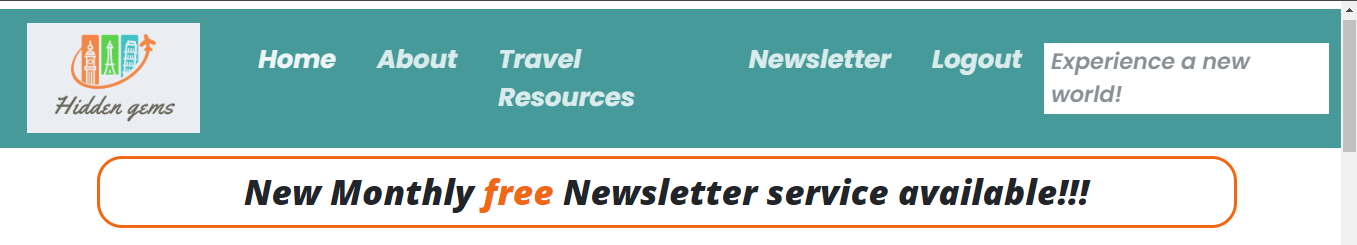
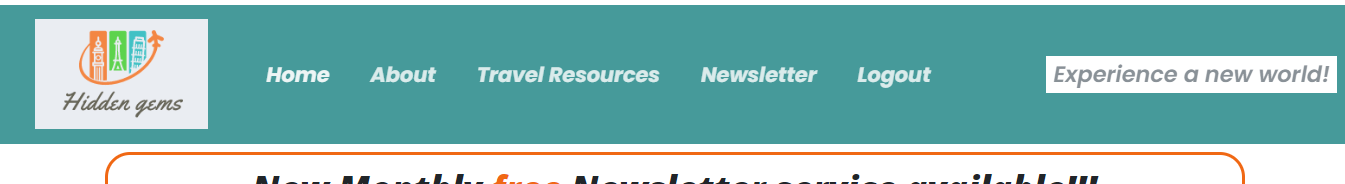
Add photos to be used in features section of README.md.

diff --git a/newsletter/templates/newsletter/newsletter-confirm-delete.html b/newsletter/templates/newsletter/newsletter-confirm-delete.html
@@ -4,7 +4,7 @@
     <h1 class="newsletter-phrase">Unsubscribe from Newsletter</h1>
   </div>
   <div class="m-5 email-list text-center">
-    <p class="orange"><strong>Are you sure you want to unsubscribe {{ object.email }}?</strong></p>
+    <p class="orange"><strong>Are you sure you want to unsubscribe <br>{{ object.email }}?</strong></p>
     <form method="post">
       {% csrf_token %}
       <button class="btn btn-primary btn-sm" type="submit">Yes, Unsubscribe</button>

diff --git a/newsletter/templates/newsletter/newsletter-form.html b/newsletter/templates/newsletter/newsletter-form.html
@@ -5,6 +5,7 @@
       <h1 class="newsletter-phrase">{% if object.pk %}Edit Subscription{% else %}Subscribe to Newsletter{% endif %}</h1>
     </div>
     <div class="m-5 email-list text-center">
+      <p class="orange">Which email would you like us to send it to?</p>
       <form method="post">
       {% csrf_token %}
       {{ form.as_p }}

diff --git a/static/css/style.css b/static/css/style.css
@@ -43,7 +43,7 @@ body {
     font-family: "Poppins", sans-serif;
     font-weight: 700;
     font-style: oblique;
-    font-size: 1.6rem;
+    font-size: 1.3rem;
 }
 
 .nav-item {

diff --git a/newsletter/views.py b/newsletter/views.py
@@ -94,10 +94,11 @@ def subscribe_view(request):
         form = SubscriptionForm(request.POST)
         if form.is_valid():
             email = form.cleaned_data.get('email')
-            subscription,
-            created = NewsletterSubscription.objects.get_or_create(
-                email=email,
-                defaults={'user': user} if user else {}
+            subscription, created = (
+                NewsletterSubscription.objects.get_or_create(
+                    email=email,
+                    defaults={'user': user} if user else {}
+                )
             )
 
             if created:
